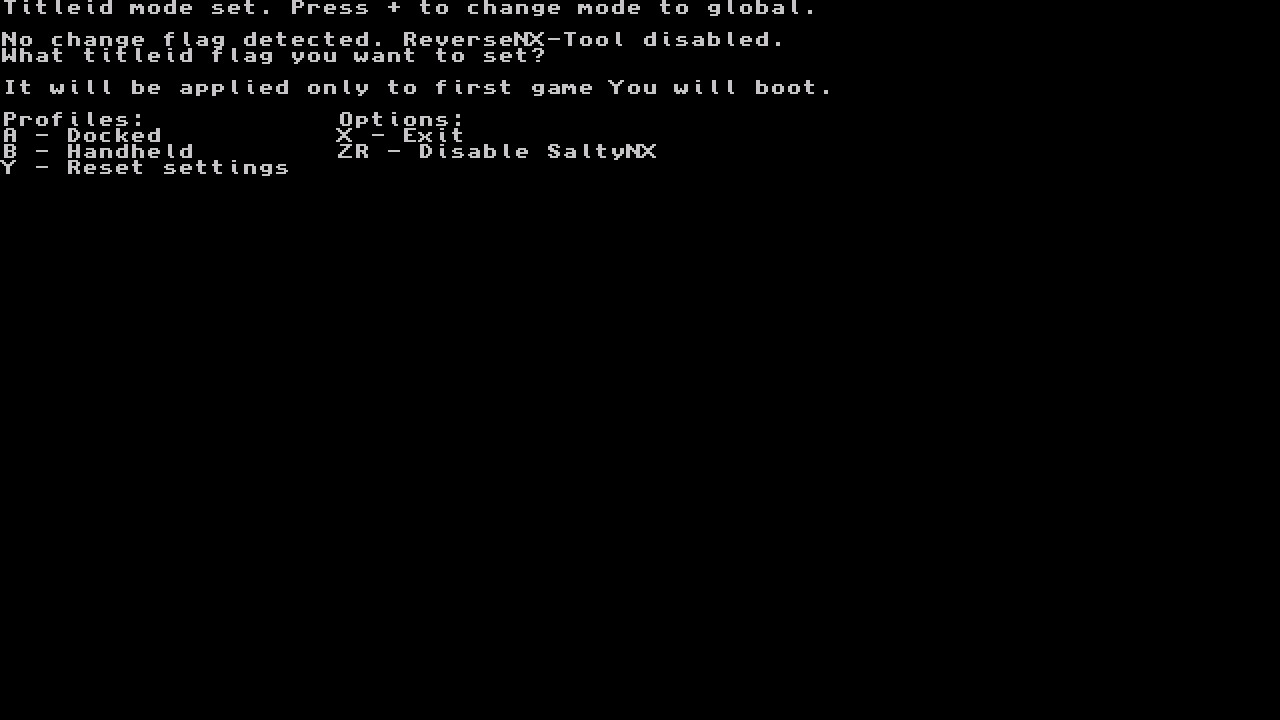
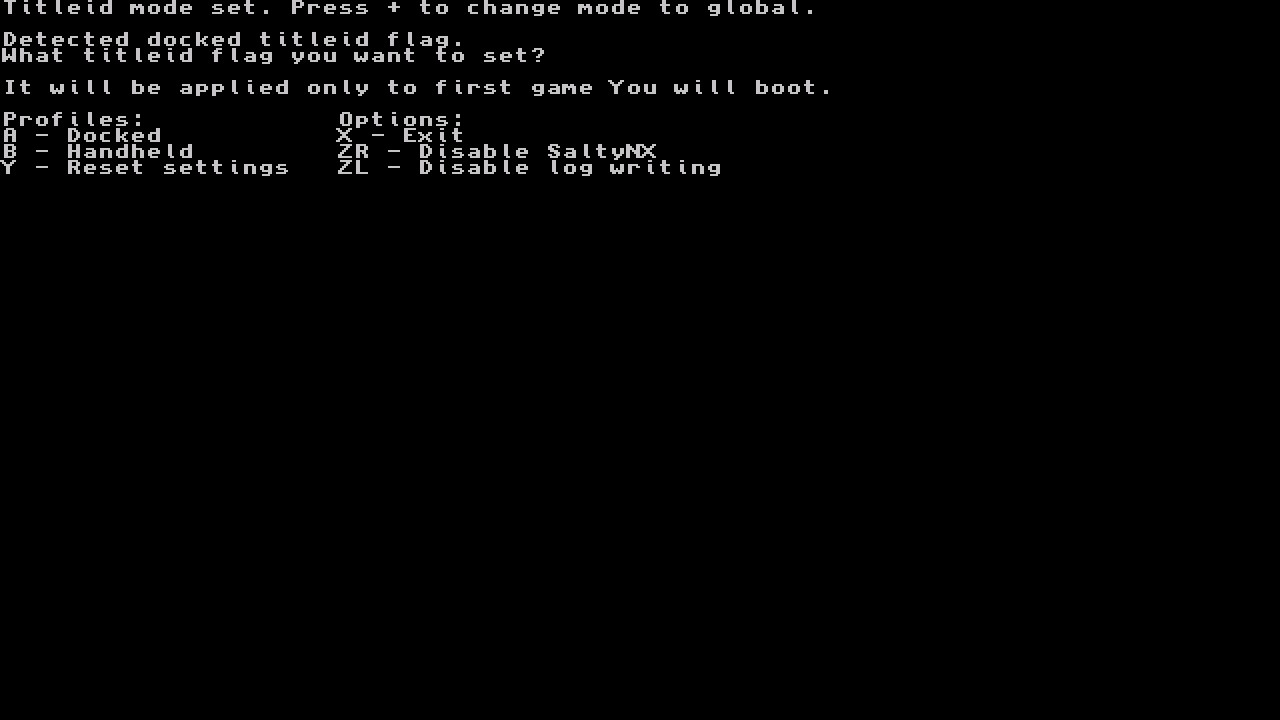
Update docs

diff --git a/README.md b/README.md
@@ -1,4 +1,4 @@
-This doc has been made for releases: ReverseNX-Tool **1.36**, SaltyNX **0.1.2a**, ReverseNX **0.34**
+This doc has been made for releases: ReverseNX-Tool **1.3.8**, SaltyNX **0.2.0a**, ReverseNX **0.34**
 
 ReverseNX-Tool is an additional tool to make managament of ReverseNX flags easier.
 
@@ -15,6 +15,8 @@ For `global` and `titleid` modes:
 If you want to change modes, press **+** button. 
 
 If you want to disable loading ReverseNX, press **ZR**. It will go to disabled mode.
+
+If you want to disable\enable log writing, press **ZL**.
 
 # global
 
